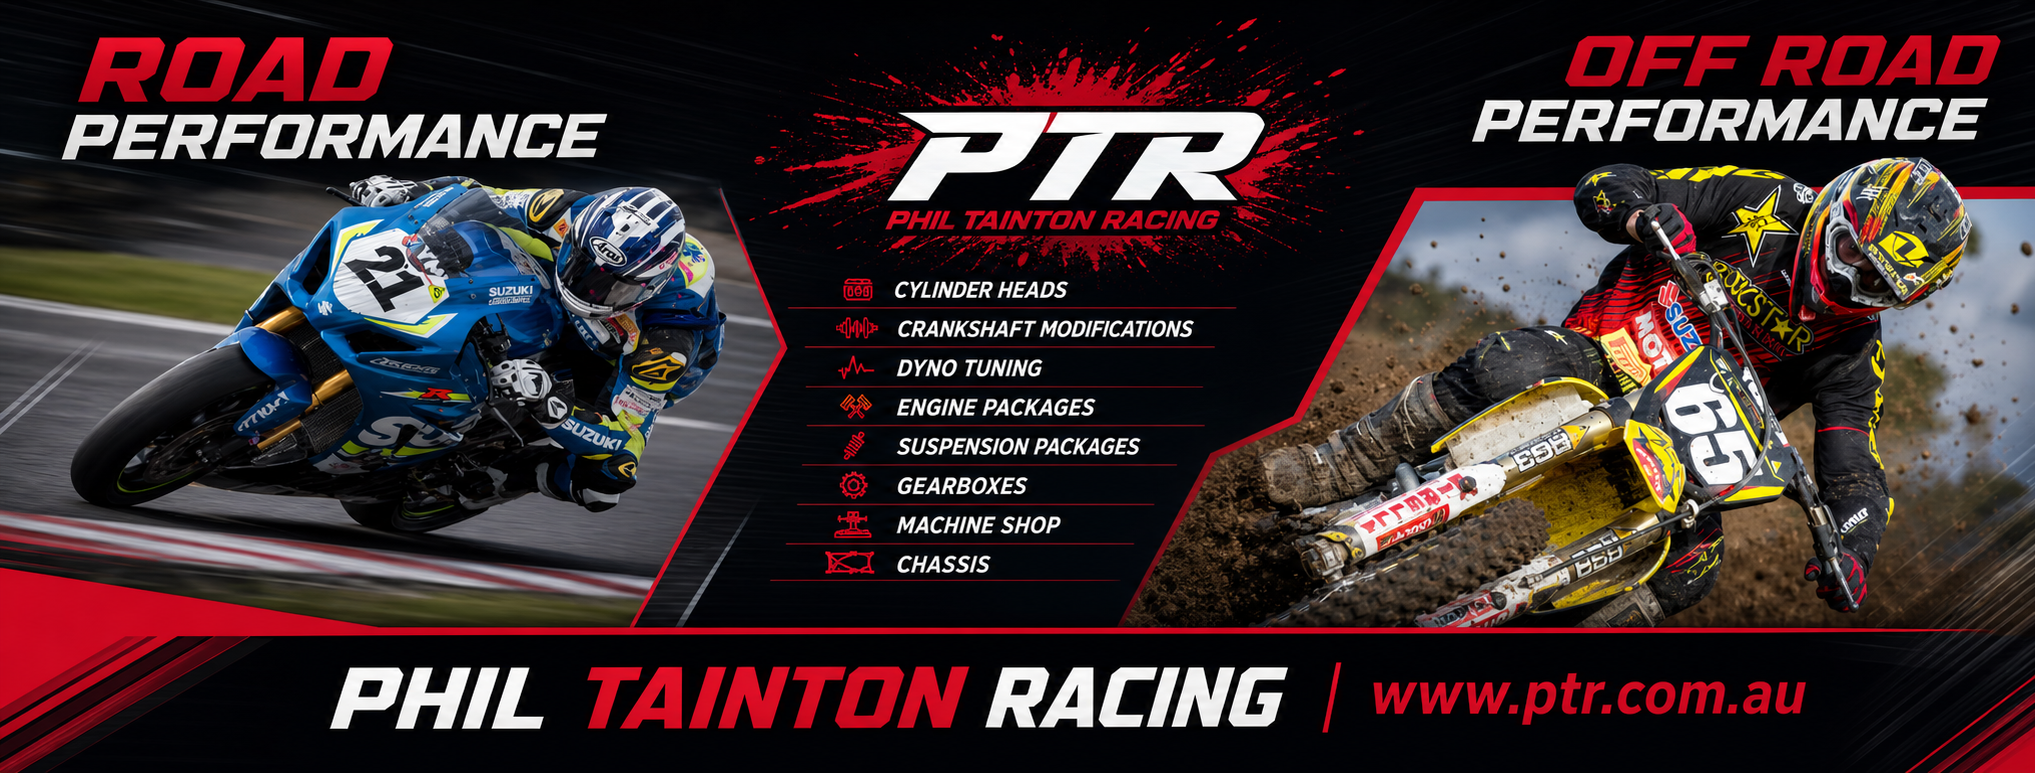
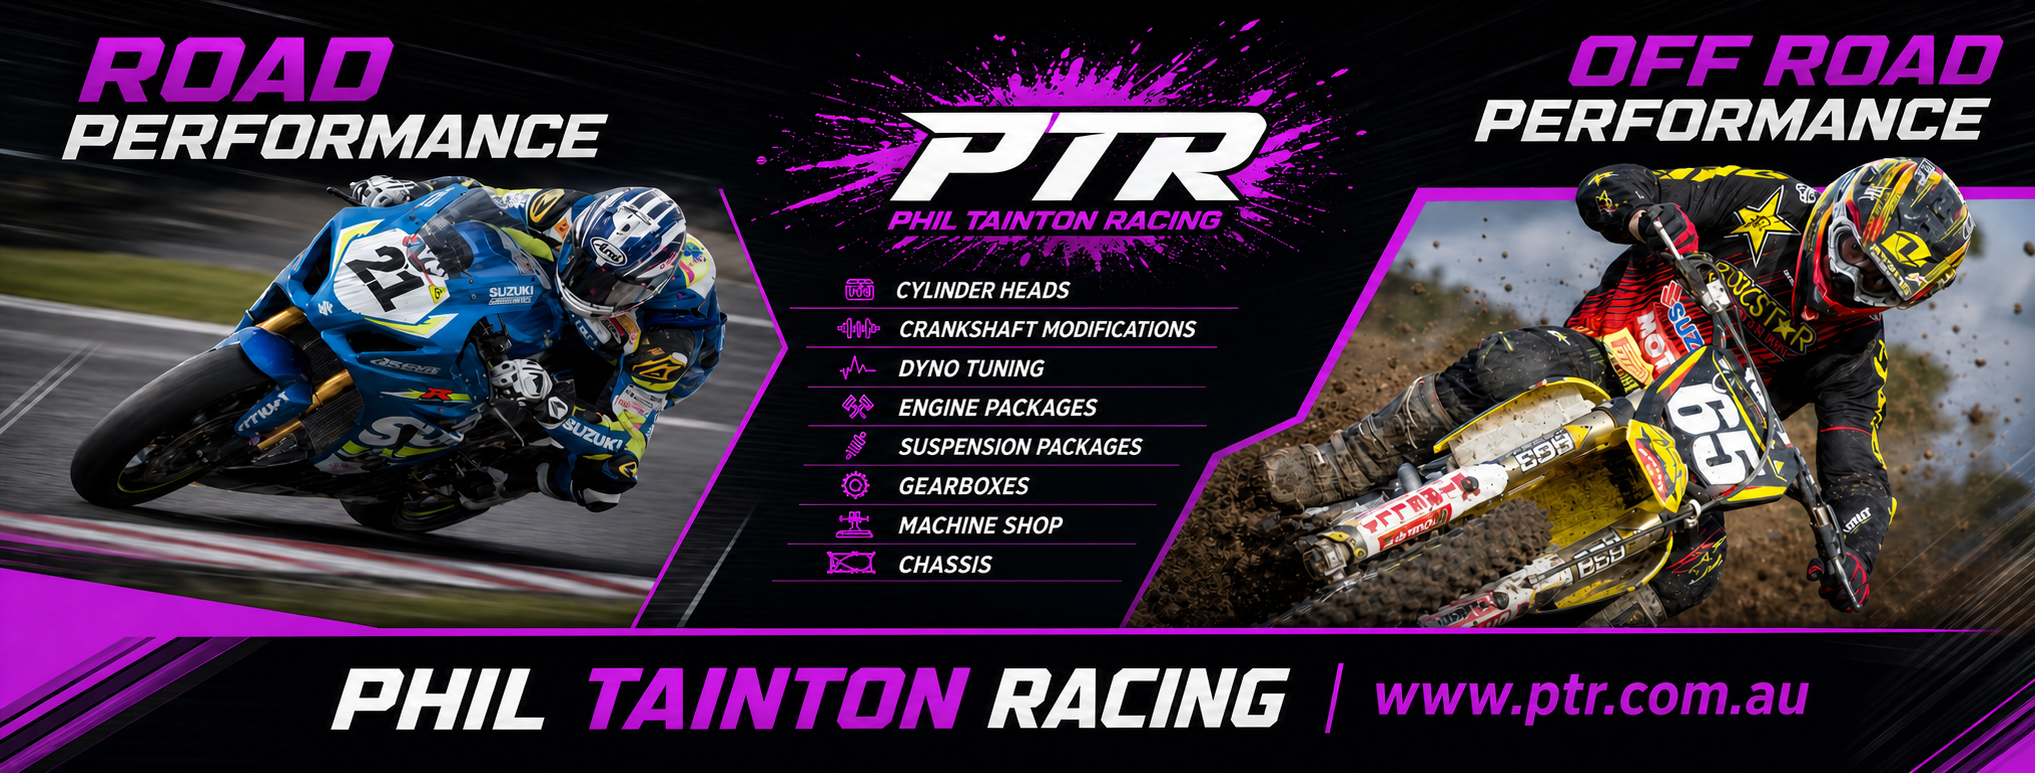
Update Facebook cover to purple accents

diff --git a/CODEX.md b/CODEX.md
@@ -171,10 +171,11 @@
 
 - Redesigned the old PTR Facebook banner to better match the website style.
 - Direction:
-  - Black/red racing visual system
+  - Black/purple racing visual system
   - Road performance and off road performance split
   - Central PTR branding
   - Clean service list
   - Bottom band with `PHIL TAINTON RACING | www.ptr.com.au`
 - Saved final banner asset:
   - `assets/facebook/ptr-facebook-cover-2026.png`
+- Updated the original red accents to purple/magenta to better match the website and PTR logo energy.
